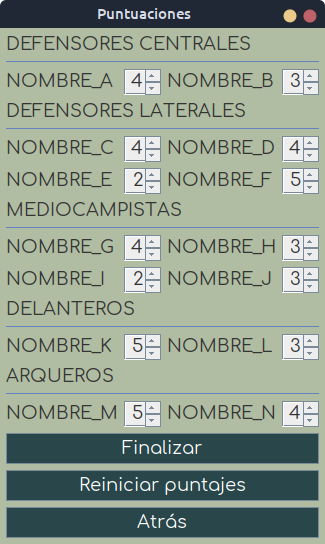
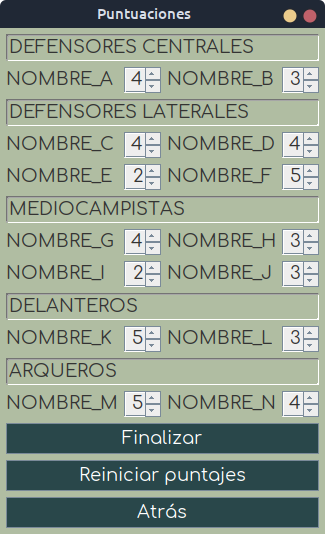
minor GUI fix @ RatingsFrame

diff --git a/src/main/java/armameeldoparti/frames/InputFrame.java b/src/main/java/armameeldoparti/frames/InputFrame.java
@@ -291,7 +291,7 @@ public class InputFrame extends JFrame implements ActionListener {
                 if (!(Pattern.matches(NAMES_VALIDATION_REGEX, tf.getText()))) {
                     JOptionPane.showMessageDialog(null,
                                           "El nombre del jugador debe estar formado sólo por letras de la A a la Z",
-                                            "¡Error!", JOptionPane.ERROR_MESSAGE, null);
+                                          "¡Error!", JOptionPane.ERROR_MESSAGE, null);
                 } else {
                     String name = tf.getText().trim().toUpperCase().replace(" ", "_");
 
@@ -300,7 +300,7 @@ public class InputFrame extends JFrame implements ActionListener {
                         JOptionPane.showMessageDialog(null,
                                                       "El nombre del jugador no puede estar vacío, tener más de "
                                                       + MAX_NAME_LEN + " caracteres, o estar repetido",
-                                                "¡Error!", JOptionPane.ERROR_MESSAGE, null);
+                                                      "¡Error!", JOptionPane.ERROR_MESSAGE, null);
 
                         tf.setText("");
                     } else {

diff --git a/src/main/java/armameeldoparti/frames/RatingFrame.java b/src/main/java/armameeldoparti/frames/RatingFrame.java
@@ -9,11 +9,11 @@ import javax.swing.JButton;
 import javax.swing.JFrame;
 import javax.swing.JLabel;
 import javax.swing.JPanel;
-import javax.swing.JSeparator;
 import javax.swing.JSpinner;
 import javax.swing.JSpinner.DefaultEditor;
+import javax.swing.border.BevelBorder;
+import javax.swing.border.SoftBevelBorder;
 import javax.swing.SpinnerNumberModel;
-import javax.swing.SwingConstants;
 import javax.swing.WindowConstants;
 import net.miginfocom.swing.MigLayout;
 
@@ -101,8 +101,9 @@ public class RatingFrame extends JFrame {
         for (int i = 0; i < inputFrame.getPlayersMap().size(); i++) {
             JLabel label = new JLabel(Main.getPositionsMap().get(Position.values()[i]));
 
-            panel.add(label, "span");
-            panel.add(new JSeparator(SwingConstants.HORIZONTAL), "growx, span");
+            label.setBorder(new SoftBevelBorder(BevelBorder.LOWERED));
+
+            panel.add(label, GROW_SPAN);
 
             for (int j = 0; j < inputFrame.getPlayersMap().get(Position.values()[i]).size(); j++) {
                 spinnersMap.put(inputFrame.getPlayersMap().get(Position.values()[i]).get(j),

diff --git a/README.md b/README.md
@@ -89,13 +89,9 @@ No se podrán anclar a un mismo equipo todos los jugadores de un mismo tipo (por
     - En el campo de ingreso de comando personalizado, ingresar: `java -jar`
     - Seleccionar como opción predeterminada para ejecución de este tipo de archivos
 
-#
-
 ## 🔜 Próximamente
 - Se agregarán las opciones de 5 y 9 jugadores por equipo.
 - El usuario podrá optar por ingresar una distribución propia de jugadores, o utilizar las provistas por defecto.
-
-#
 
 ## 📸 Capturas de pantalla
 ![ventana_principal](./src/main/res/img/ss1.png)\
